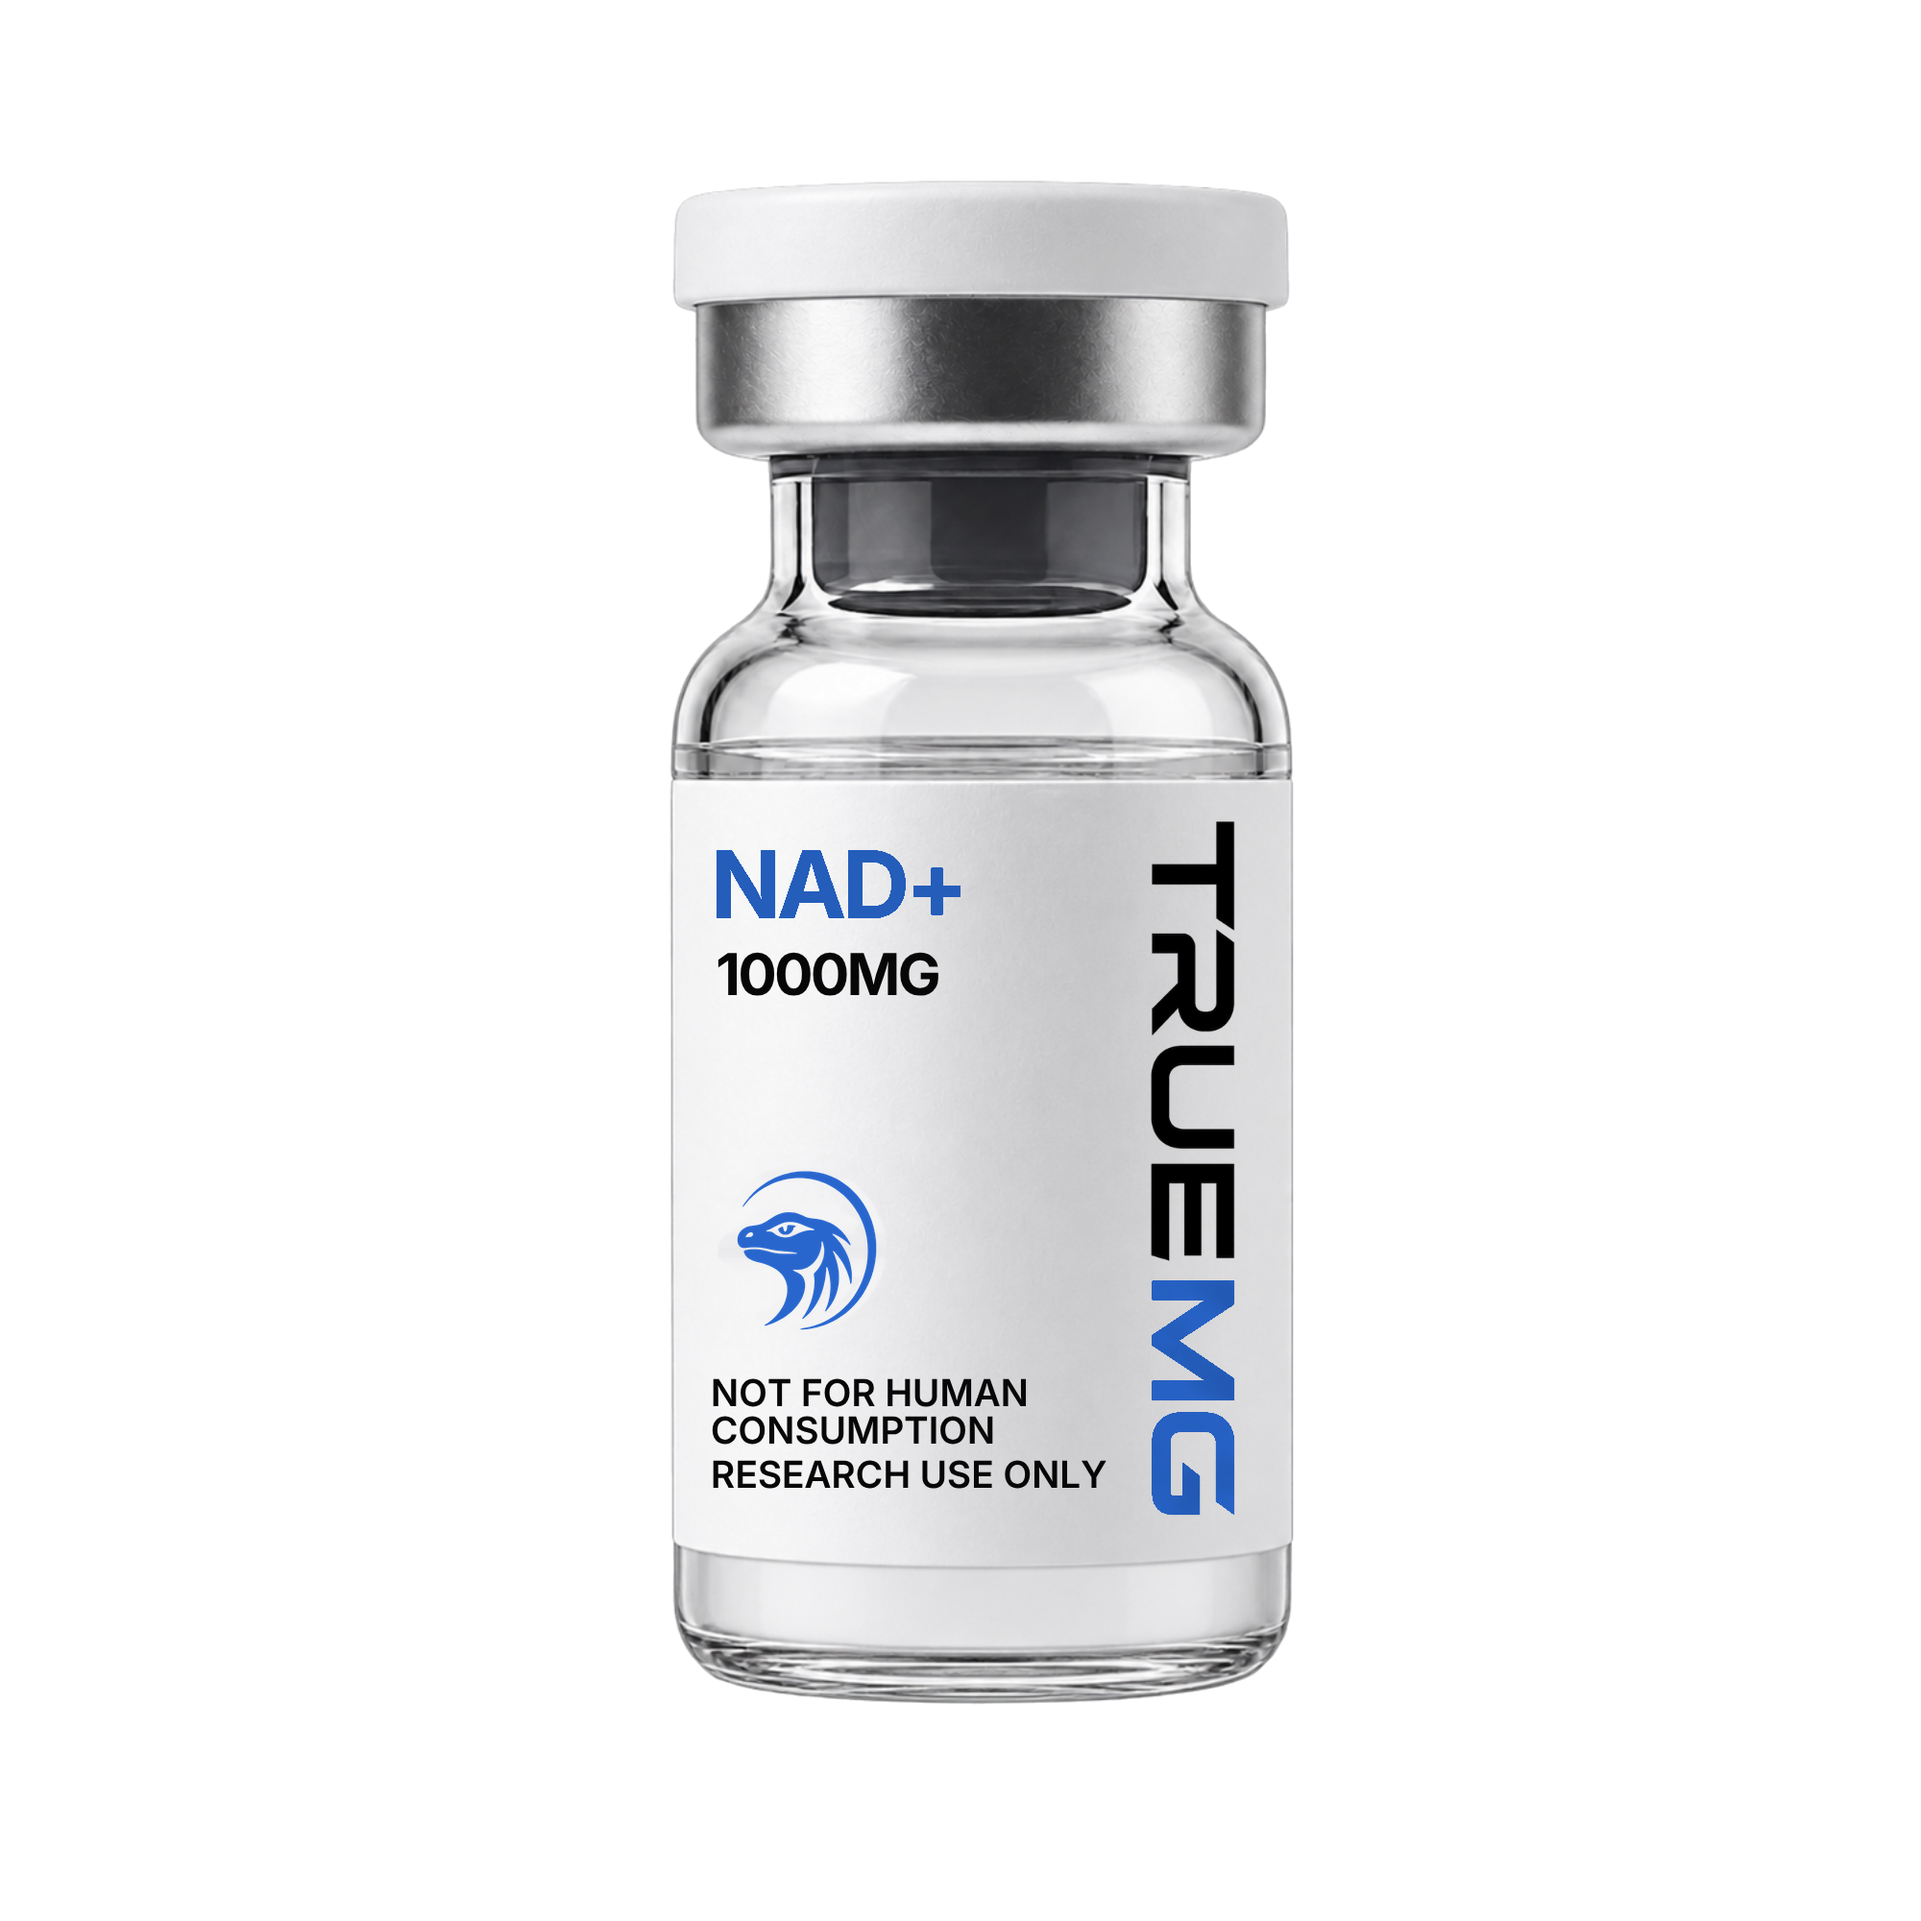
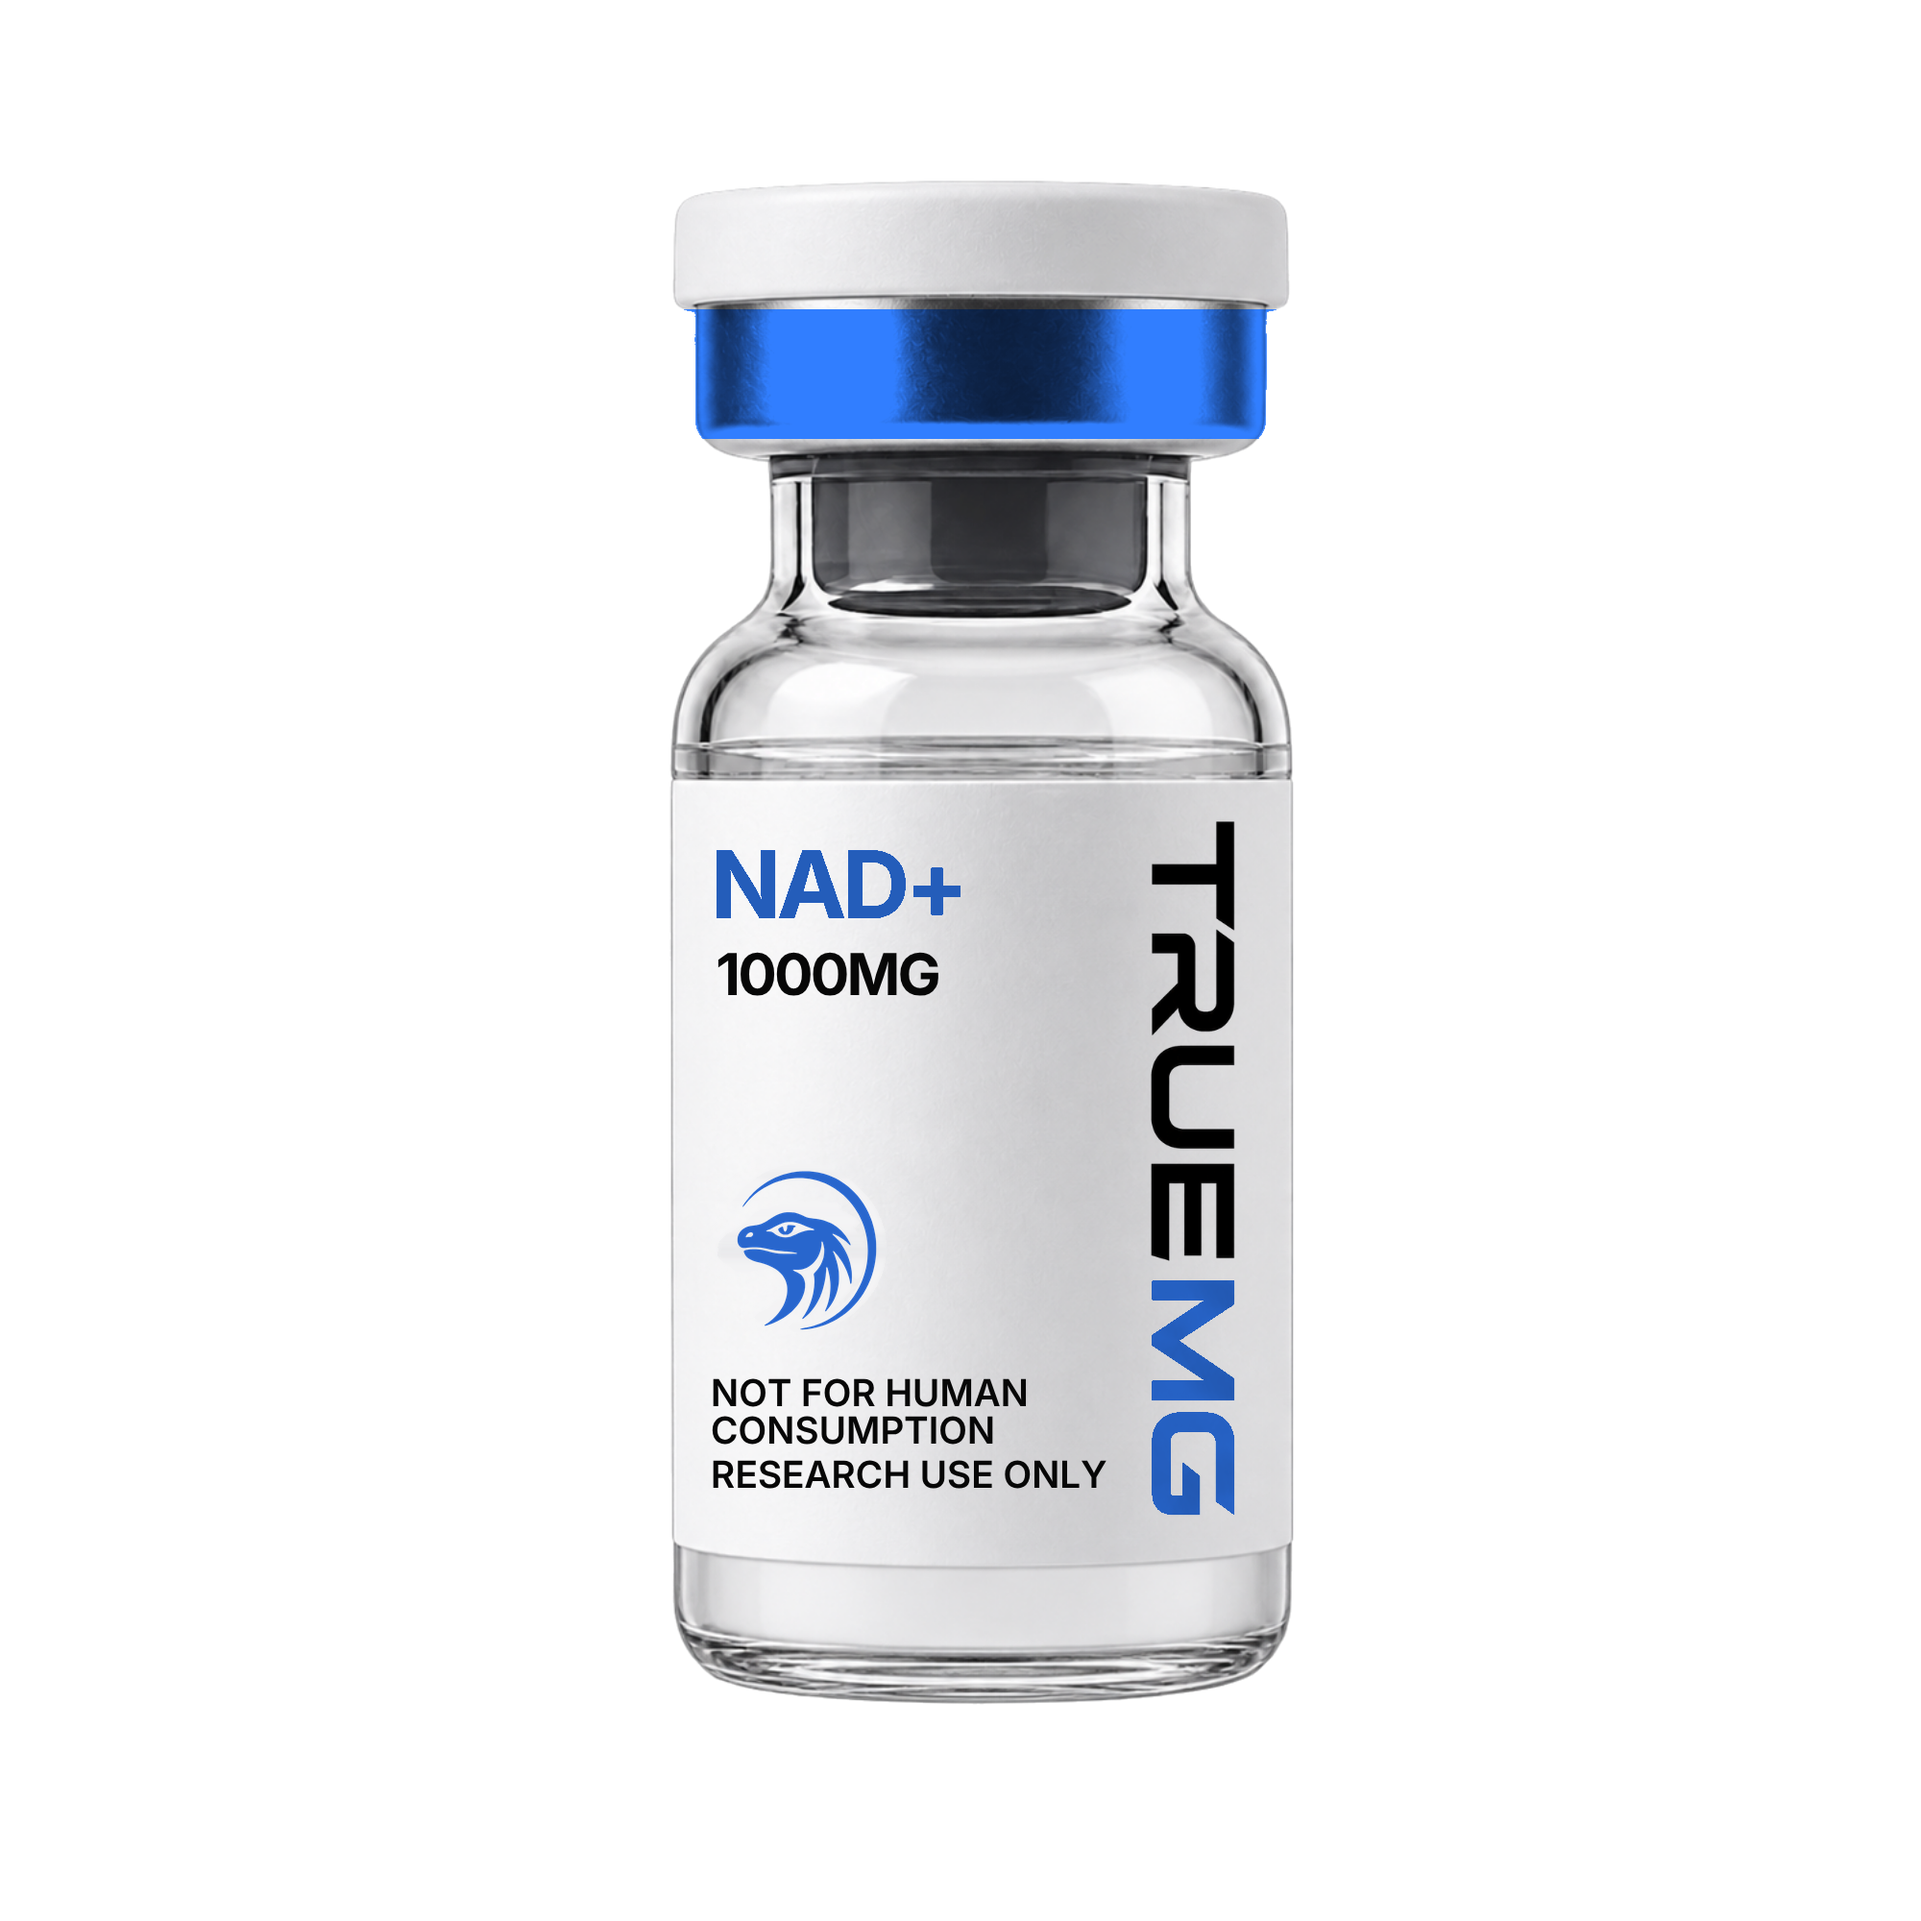
Blue crimp on all seventeen vials
Mila picked blue crimp with the white cap off the comparison sheet, so it is
now the line rather than one frame of a test. The crimp band is recoloured
hue-and-saturation-only on each vial, so the knurl, the specular and the
shadow under the cap all survive; the cap itself is untouched, because it is
already white and recolouring it to a nominal white would only flatten it.

The band lands correctly on every one of the seventeen without per-file
adjustment, which is what the identical framing across the cut-outs was for.

Claude-Session: https://claude.ai/code/session_01GVck48CzMY6cqm4QCmkhM1

Changed region(s): [[0.341, 0.155, 0.682, 0.248]]

diff --git a/truemg/assets/caps/bluecrimp.py b/truemg/assets/caps/bluecrimp.py
@@ -1,0 +1,63 @@
+"""Blue crimp, white cap, across the whole line — Mila's pick.
+
+The cap is left exactly as photographed rather than recoloured to a nominal white:
+it is already white, and a recolour would only cost it a little of its shading.
+"""
+import numpy as np, colorsys, os, glob
+from PIL import Image, ImageDraw, ImageFont
+
+D = os.path.dirname(os.path.abspath(__file__)); os.chdir(D)
+CRIMP = (0.085, 0.170)
+BLUE  = "#2866CD"
+hexrgb = lambda h: tuple(int(h.lstrip('#')[i:i+2], 16) for i in (0, 2, 4))
+
+def recolour(im, band, target):
+    a = np.asarray(im).astype(float).copy()
+    al = a[:, :, 3] > 128
+    rows = np.where(al.any(axis=1))[0]
+    y0 = rows.min() + int((rows.max() - rows.min()) * band[0])
+    y1 = rows.min() + int((rows.max() - rows.min()) * band[1])
+    sl = a[y0:y1, :, :3]; m = al[y0:y1]
+    if not m.any(): raise SystemExit("empty crimp band")
+    hsv = np.array([colorsys.rgb_to_hsv(*(p / 255)) for p in sl[m]])
+    th, ts, tv = colorsys.rgb_to_hsv(*(np.array(hexrgb(target)) / 255))
+    scale = tv / max(hsv[:, 2].mean(), 1e-6)
+    sl[m] = np.array([colorsys.hsv_to_rgb(th, ts, min(v * scale, 1.0))
+                      for v in hsv[:, 2]]) * 255
+    a[y0:y1, :, :3] = sl
+    return Image.fromarray(a.clip(0, 255).astype(np.uint8), "RGBA")
+
+os.makedirs("blue", exist_ok=True)
+files = sorted(glob.glob("cut/brand/tmg-*.png"))
+for f in files:
+    recolour(Image.open(f).convert("RGBA"), CRIMP, BLUE).save("blue/" + os.path.basename(f))
+print("recoloured", len(files))
+
+# ---- contact sheet, checkerboard behind the alpha so a white halo would show ----
+F = lambda n, s: ImageFont.truetype("/usr/share/fonts/truetype/dejavu/" + n, s)
+MONO, BOLD = F("DejaVuSansMono.ttf", 13), F("DejaVuSans-Bold.ttf", 21)
+INK, MUT = (10, 10, 11), (138, 133, 125)
+COLS, CW, CH = 6, 172, 236
+rows = (len(files) + COLS - 1) // COLS
+W, H = 40 + COLS * CW + 20, 108 + rows * CH + 24
+c = Image.new("RGB", (W, H), INK); d = ImageDraw.Draw(c)
+d.text((36, 28), "BLUE CRIMP, WHITE CAP — the whole line", font=BOLD, fill=(237, 235, 230))
+d.text((36, 60), "%d vials · crimp #2866CD · cap as photographed · transparent PNG"
+       % len(files), font=MONO, fill=MUT)
+tile = Image.new("RGB", (16, 16), (30, 30, 32))
+ImageDraw.Draw(tile).rectangle([8, 0, 15, 7], fill=(38, 38, 41))
+ImageDraw.Draw(tile).rectangle([0, 8, 7, 15], fill=(38, 38, 41))
+for i, p in enumerate(files):
+    x, y = 36 + (i % COLS) * CW, 104 + (i // COLS) * CH
+    cell = Image.new("RGB", (CW - 14, CH - 44))
+    for ty in range(0, cell.height, 16):
+        for tx in range(0, cell.width, 16): cell.paste(tile, (tx, ty))
+    v = Image.open("blue/" + os.path.basename(p)).convert("RGBA")
+    k = min((cell.width - 16) / v.width, (cell.height - 16) / v.height)
+    v = v.resize((int(v.width * k), int(v.height * k)), Image.LANCZOS)
+    cell.paste(v, ((cell.width - v.width) // 2, (cell.height - v.height) // 2), v)
+    c.paste(cell, (x, y))
+    d.text((x, y + cell.height + 8), os.path.basename(p)[4:-4][:21], font=MONO,
+           fill=(222, 220, 214))
+c.save("shots/blue-line.jpg", quality=93)
+print("shots/blue-line.jpg", c.size)

diff --git a/truemg/assets/vials/sheet.py b/truemg/assets/vials/sheet.py
@@ -15,8 +15,8 @@ W = 40 + COLS * CW + 20
 H = 108 + rows * CH + 24
 c = Image.new("RGB", (W, H), INK)
 d = ImageDraw.Draw(c)
-d.text((36, 28), "VIALS — cut out, rebranded, brand blue", font=BOLD, fill=(237, 235, 230))
-d.text((36, 60), "%d files · transparent PNG · new Gila mark in #2866CD on the white label"
+d.text((36, 28), "VIALS — cut out, rebranded, blue crimp", font=BOLD, fill=(237, 235, 230))
+d.text((36, 60), "%d files · transparent PNG · Gila mark and crimp in #2866CD, cap as photographed"
        % len(files), font=MONO, fill=MUT)
 
 # checkerboard tile so transparency is visible

diff --git a/truemg/assets/caps/README.md b/truemg/assets/caps/README.md
@@ -56,3 +56,13 @@ are separate components, so the sheet shows all three: gold crimp with a blue
 cap, blue crimp with a gold cap, and a blue crimp carrying a gold ring at the
 top (`RING`, the top third of the crimp band, recoloured after the band so it
 sits over it). `x0`–`x2` are those frames.
+
+## Decided
+
+**Blue crimp, white cap.** Mila's call, and it is now on all seventeen vials in
+`truemg/assets/vials/`. `bluecrimp.py` is what rolled it across the line; the
+cap is left exactly as photographed rather than recoloured to a nominal white,
+since it is already white and a recolour would only cost it shading.
+
+The family cap-coding set above stays on the table as a phase two, once volume
+justifies more than one colour minimum.
